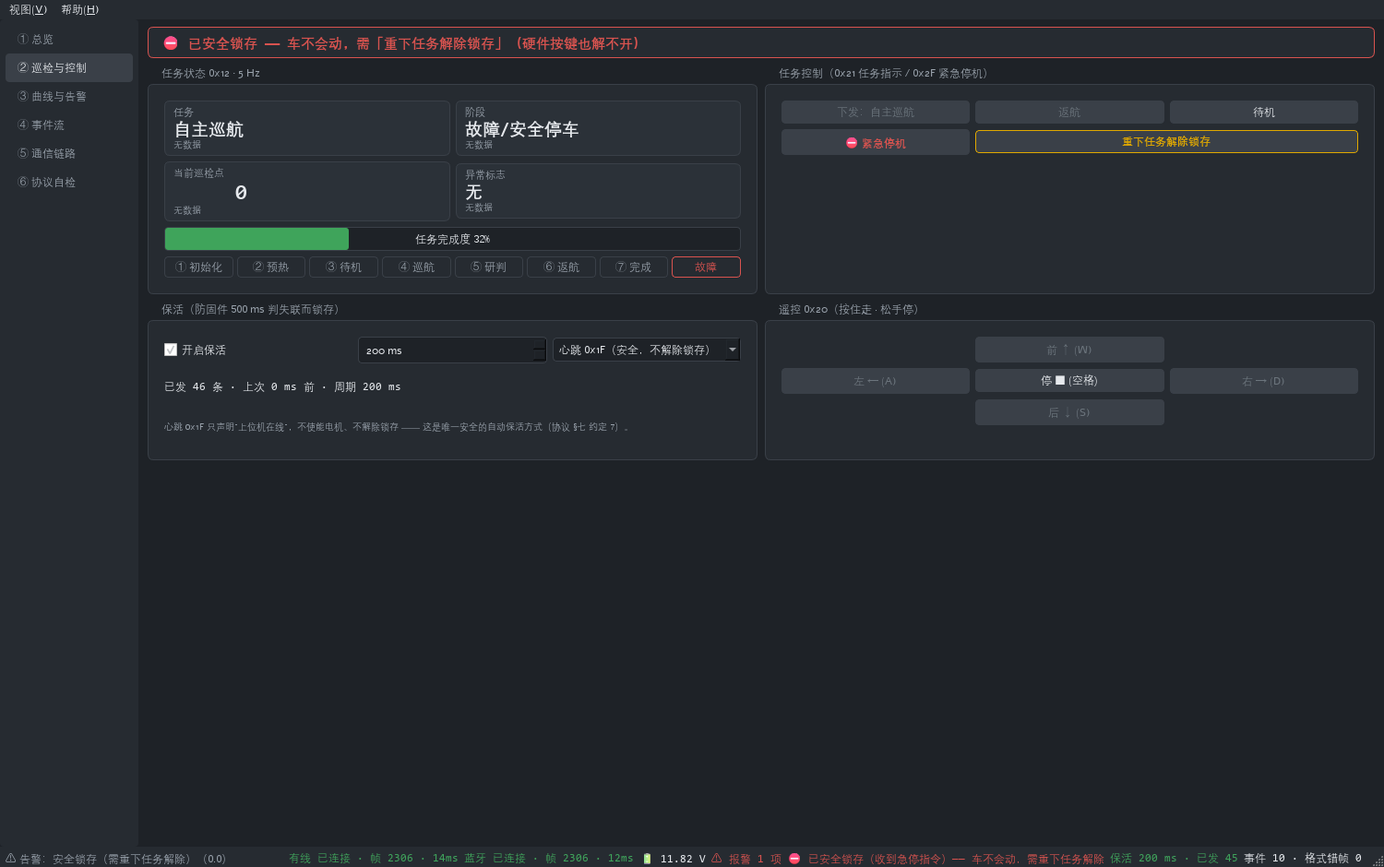
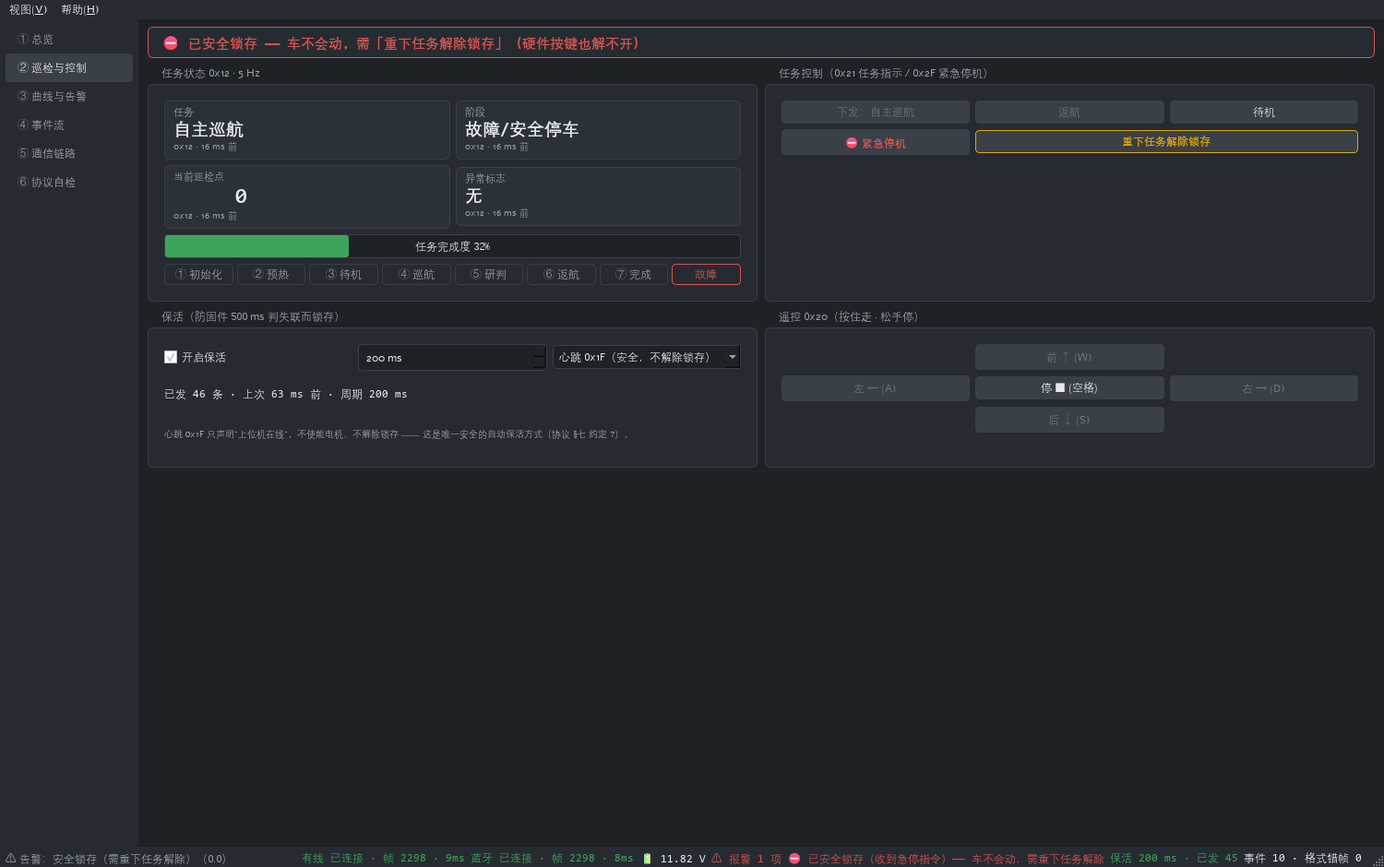
C-P3：巡检可视化与任务控制（commands/keepalive/patrol_panel + 操作员动作留档）
domain/commands：下行数据段唯一出处（0x20/0x21/0x22/0x23/0x24/0x2F/0x1F），带 int16/uint16 钳位（回绕会把'全速前进'变成'后退'）、ppm×10 换算、0x24 float32 小端且拒绝 NaN/Inf、安全影响分类（0x2F 锁存 / 0x20·0x21 可能解除锁存）。domain/keepalive：保活引擎（默认心跳 0x1F·200 ms，链路不通不发，打开/链路恢复立刻发第一条，失败不计入已发）。ui/panels/patrol_panel：阶段时间轴（故障单列红牌）+ 任务下发(0x21)/急停(0x2F)/重下任务解除锁存 + 保活控制（使能模式红字告警）+ 遥控（按住走松手停，键盘 WASD/空格）；锁存期间禁用全部起点类入口。data/event_log：新增操作员动作留档（急停/任务按安全事件着色）。★ 两条安全纪律：保活只能用心跳（用使能保活会每 200 ms 自动解除锁存=绕过急停，决策 69）、锁存期间靠禁用按钮兜底而不是提示语（决策 70）。修 ValueCard 陈旧副标题（值更新后仍写着'无数据'）并加回归测试。测试：ctest 6/6（新增命令/保活 13 项 + 界面 3 项）；--selftest 12 --rate 5 退出码 0 并打印保活统计；文档：C计划 §十五 + 决策 69/70 + AGENTS 陷阱 40 + README §二之六 + 截图 P3_巡检与控制.png。

diff --git a/host/README.md b/host/README.md
@@ -3,14 +3,14 @@
 > 📋 **开工前先读**：[`../docs/design_host/C部分方案与计划.md`](../docs/design_host/C部分方案与计划.md) —— 调研结论 / 技术选型 / 五层模块 / 线程与数据模型 / UI 布局与配色 / P0~P5 计划。
 > 📄 **协议基线**：[`../docs/protocol/communication_protocol.md`](../docs/protocol/communication_protocol.md) **v1.2**（v1.1 冻结版 + `0x15` 诊断 / `0x16` 三环实况增量；含 §七 给上位机的显示约定 13 条）。
 
-> **状态：P0（通信链路）+ P1（状态可见）+ P2（曲线与告警）已完成**（2026-10-15）
-> —— `protocol/` + `io/` + `domain/`（units/frames/vehicle_state/**alarm**）+ `data/event_log` + 五个界面页
-> （总览 / **曲线与告警** / **事件流** / 通信链路 / 协议自检）可用。
-> `ctest` **5/5 通过**（协议 13 + 链路 8 + domain 15 + 界面 7 + 告警/事件流 13）；`host.exe --selftest 3 -platform offscreen` 退出码 **0**。
+> **状态：P0（通信链路）+ P1（状态可见）+ P2（曲线与告警）+ P3（巡检与控制）已完成**（2026-10-15）
+> —— `protocol/` + `io/` + `domain/`（units/frames/vehicle_state/alarm/**commands/keepalive**）+ `data/event_log` + 六个界面页
+> （总览 / **巡检与控制** / 曲线与告警 / 事件流 / 通信链路 / 协议自检）可用。
+> `ctest` **6/6 通过**（协议 13 + 链路 8 + domain 15 + 界面 10 + 告警 13 + **命令/保活 13**）；`host.exe --selftest 3 -platform offscreen` 退出码 **0**。
 > **没有板子也能开发/演示**：假源内置剧本（每 30 s 气体冲高、每 60 s 急停锁存→解除、50~56 s 低压），
-> `--demo --rate 5` 约 12 s 就能把"报警 → 曲线留痕 → 事件流留档 → 解除"整套演完；
+> `--demo --rate 5` 约 12 s 就能把"报警 → 曲线留痕 → 事件流留档 → 锁存 → 重下任务解除"整套演完；
 > **有板子时**用 `--probe COM3` 一条命令把"链路 / 各命令字实际收到条数 / 状态聚合"一次打全（只读，见 §二之三）。
-> 巡检可视化与任务控制（P3）、调参与记录（P4）、打包与文档（P5）待做。
+> 调参与记录（P4）、打包与文档（P5）待做。
 
 > 📌 **来自 B 侧的对接说明（2026-10-09，务必看一下）**
 > 1. **协议测试向量已就绪**：[`../docs/protocol/test_vectors.json`](../docs/protocol/test_vectors.json)（`.tsv` 便于脚本比对）——
@@ -38,11 +38,10 @@
 | 打开串口 | ⚠ **必须显式驱动 DTR/RTS** | 本板 CH340G 把 DTR 接复位、RTS 接 BOOT0；串口一打开驱动默认把两者拉高 ⇒ MCU 停在 BootLoader ⇒ **端口能开、一个字节都收不到**。**运行态 DTR=高、RTS=低**（AGENTS 铁律 33）|
 | 蓝牙链路 | ⚠ **Windows 上暂不通** | 蓝牙 SPP **能配对但建不出 COM 口**；`pybluez2` 在 Python 3.13 上编译不过；本 Qt 套件**未安装 Qt Bluetooth 模块**。**P1 用有线链路（USART1）做主线**；端口识别按**合法帧**判定（参考 [`../tools/fw_prep/bt_scan.py`](../tools/fw_prep/bt_scan.py)，决策 61）|
 | `src/io/` 链路层 | ✅ **P0 完成** | `LinkBase` 抽象 + `SerialLink`（QSerialPort + 工作线程阻塞读 + 自动重连）+ `ReplayLink`（假源/录制回放，离线开发与演示兜底）+ `LinkManager`（双链路、主链路优先、统计）|
-| `src/domain/` 领域层 | ✅ **P1/P2 完成** | `units`（协议定点量的**唯一**换算与格式化处）、`frames`（8 类上行帧结构体 + **精确长度**校验的解析 + 名称表）、`vehicle_state`（双链路合并 + **跨链路去重**、来源与新鲜度、格式错帧/协议外命令/重复帧计数、安全锁存判定、OLED 写速率与四任务 tick 存活）、**`alarm`（连续确认 + 迟滞 + 状态跃变才报，含低压"低了才坏"的方向处理）** |
-| `src/data/` 数据层 | ✅ **P2 起** | `event_log`：机器人 `0x13` 事件（**已去重**）与本机告警同轴留档，安全事件 `0x0A`→`0x09` 成对给出**停车时长**；P4 再加 CSV/SQLite 落盘 |
-| `src/ui/` 界面 | ✅ **P1/P2 完成** | **总览**（姿态+人工地平仪 / 运动 / 电源环境 / 任务巡检 / 诊断 `0x15`+`0x16` / 状态位 LED / 链路与数据来源 + 安全横幅）、**曲线与告警**（四张通道独立曲线：MQ-2 / MQ-135 / 电压 / 温湿度；阈值线、告警标记、十字定标、滚轮缩放、暂停更新、末端读数）、**事件流**（可过滤 + 停车时长 + 量化统计）、**通信链路**（P0）、协议自检；状态条含**假源水印** |
-| 巡检可视化与任务控制 | ⬜ P3 | 阶段/进度/里程碑 + `0x21/0x20/0x2F` + 保活与锁存提示 |
-| 调参与记录 | ⬜ P4 | `0x24` 全流程 + CSV/SQLite + 回放 |
+| `src/domain/` 领域层 | ✅ **P1~P3 完成** | `units`（协议定点量的**唯一**换算与格式化处）、`frames`（8 类上行帧结构体 + **精确长度**校验的解析 + 名称表）、`vehicle_state`（双链路合并 + **跨链路去重**、来源与新鲜度、格式错帧/协议外命令/重复帧计数、安全锁存判定、OLED 写速率与四任务 tick 存活）、`alarm`（连续确认 + 迟滞 + 状态跃变才报）、**`commands`（下行数据段唯一出处 + 安全影响分类）**、**`keepalive`（默认心跳 0x1F 保活，防固件 500 ms 判失联）** |
+| `src/data/` 数据层 | ✅ **P2 起** | `event_log`：机器人 `0x13` 事件（已去重）、本机告警与**操作员动作**同轴留档，安全事件 `0x0A`→`0x09` 成对给出**停车时长**；P4 再加 CSV/SQLite 落盘 |
+| `src/ui/` 界面 | ✅ **P1~P3 完成** | **总览**（姿态+人工地平仪 / 运动 / 电源环境 / 任务巡检 / 诊断 / 状态位 LED / 链路来源 + 安全横幅）、**巡检与控制**（阶段时间轴 + 任务下发/急停/**重下任务解除锁存** + 保活控制 + 按住走松手停的遥控）、**曲线与告警**（四张通道独立曲线 + 阈值线 + 告警标记 + 十字定标）、**事件流**（过滤 + 停车时长 + 量化统计）、**通信链路**（P0）、协议自检；状态条含**假源水印**与**保活状态** |
+| 调参与记录 | ⬜ P4 | `0x24` 全流程 + `0x23` 下发界面 + CSV/SQLite + 回放 |
 | 打包与文档（P5） | ⬜ | `windeployqt` + 软件设计说明 + 用户操作手册 |
 
 ## 二、构建与测试
@@ -62,10 +61,10 @@ cmake -S . -B build -G Ninja -DCMAKE_BUILD_TYPE=Debug \
 # 构建
 cmake --build build
 
-# 跑单元测试（5 个目标：协议 13 + 链路 8 + domain 15 + 界面 7 + 告警/事件流 13，**都不需要硬件/显示器**）
+# 跑单元测试（6 个目标：协议 13 + 链路 8 + domain 15 + 界面 10 + 告警 13 + 命令/保活 13，**都不需要硬件/显示器**）
 ctest --test-dir build --output-on-failure
 
-# 无界面自检：两条链路都切假源，跑 3 s 打印**链路统计 + domain 状态聚合 + 告警与事件流**并退出（0 = 正常）
+# 无界面自检：两条链路都切假源，跑 3 s 打印**链路统计 + 状态聚合 + 告警与事件流 + 保活**并退出（0 = 正常）
 ./build/host.exe --selftest 3 -platform offscreen
 
 # ★ 把假源的安全剧本一次演完（约 12 s 实时 ≈ 60 s 虚拟）：气体冲高→告警→解除、急停锁存→解除、低压
@@ -76,7 +75,8 @@ ctest --test-dir build --output-on-failure
 ./build/test_link.exe           # 期望：8 passed（全在假源上跑）
 ./build/test_domain.exe         # 期望：15 passed（含冻结向量逐字段比对、跨链路去重）
 ./build/test_alarm.exe          # 期望：13 passed（连续确认/迟滞/事件流配对）
-./build/test_ui.exe -platform offscreen   # 期望：7 passed（界面冒烟，不需要显示器）
+./build/test_command.exe        # 期望：13 passed（下行帧往返、钳位、保活行为）
+./build/test_ui.exe -platform offscreen   # 期望：10 passed（界面冒烟，不需要显示器）
 
 # 跑上位机（有板子：在界面里选端口点连接；没有板子：用假源）
 ./build/host.exe
@@ -100,8 +100,9 @@ ctest --test-dir build --output-on-failure
 ./build/host.exe --demo --rate 5 --shot ../docs/design_host/图/P2_曲线与告警.png \
                  --shot-delay 13000 --shot-tab 1
 #    · 无显示器时加 -platform offscreen，并设 QT_QPA_FONTDIR=C:\Windows\Fonts（否则没有字体，整屏方框）
-#    · --shot-tab：0=总览 1=曲线与告警 2=事件流 3=通信链路 4=协议自检
+#    · --shot-tab：0=总览 1=巡检与控制 2=曲线与告警 3=事件流 4=通信链路 5=协议自检
 #    · --shot-delay 13000 配 --rate 5：让假源先跑完 60 s 虚拟时间的剧本，图上才有告警标记
+#    · 想拍"锁存"那一屏：--rate 5 --shot-delay 8800（虚拟 44 s ∈ 急停锁存窗口 40~48 s）
 
 # ③ 每次改动后的固定自检（提交前跑一遍）
 cmake --build build && ctest --test-dir build --output-on-failure \
@@ -216,6 +217,23 @@ src/protocol/
 
 **键盘**：`F11` 快速截图（存到 `AppDataLocation/shots/`，路径自动进剪贴板）；`空格` 暂停/恢复界面更新。
 
+## 二之六、P3 怎么用（巡检与控制 / 保活）
+
+![P3 巡检与控制](../docs/design_host/图/P3_巡检与控制.png)
+
+| 区域 | 内容 | 要点 |
+|---|---|---|
+| 顶部横幅 | 锁存 / 报警 / 正常 | 锁存时红字写明"**需「重下任务解除锁存」（硬件按键也解不开）**" |
+| 任务状态 | 任务 / 阶段 / 巡检点 / 异常标志 + 完成度 + **阶段时间轴**（①初始化…⑦完成，故障单列红牌） | 时间轴用位置表达进度（ISA-101：靠位置读状态） |
+| 任务控制 | 下发巡航/返航/待机（`0x21`）、**⛔紧急停机**（`0x2F`）、**重下任务解除锁存** | **锁存期间巡航/返航/方向键全部禁用**（按不动，而不是只提示）；急停不做二次确认 |
+| 保活 | 开关 + 周期（默认 200 ms）+ 方式（默认**心跳 0x1F**）+ 已发条数/上次时刻 | ★ **绝不要用"使能 0x20"当保活**：协议规定收到使能位=1 即解除安全锁存 ⇒ 每 200 ms 自动拆掉一次急停保护。选它时界面会红字告警 |
+| 遥控 | 前/后/左/右（按住走、松手停）+ 停；键盘 `W A S D` / `空格` | 松手发 `0x20 enable=0`（立即停）；锁存期间同样禁用 |
+
+**为什么保活是必需的**（协议 §五 / §11.5 第 6 条）：固件只要 **500 ms 没收到任何下行帧** 就安全停车**并锁存**，
+而锁存之后**硬件按键也解不开** —— 也就是说，上位机"安静半秒"，车就停并锁住。所以本程序：
+默认开启保活（200 ms，留 2.5 倍余量）、打开时**立刻**发第一条、链路不通时**不发**并显示"待链路"。
+**想演示"失联保护"**：把保活关掉，500 ms 后车会自己锁存，界面横幅立刻变红 —— 这条演示路径不用动任何线。
+
 ## 四、待实现的界面（按任务书要求）
 
 | 面板 | 内容 | 状态 |
@@ -223,8 +241,8 @@ src/protocol/
 | 通信接口面板 | 串口选择、波特率、连接/断开、链路状态、丢帧率、HEX 报文日志 | ✅ P0 |
 | 状态监测面板 | 姿态/轮速/超声/任务进度/巡检点 + 人工地平仪 + 状态位 LED | ✅ P1 |
 | 气体与环境面板 | 双路浓度曲线、当前值、阈值参考线、超限标记、温湿度、就绪位 | ✅ P2 |
-| 事件日志面板 | 告警滚动列表（含时间戳）、`0x08/0x09/0x0A` 成对显示 | ✅ P2 |
-| 巡检可视化与任务控制 | 阶段/进度/里程碑 + 任务下发与急停（`0x21/0x20/0x2F`）| ⬜ P3 |
+| 事件日志面板 | 告警滚动列表 + `0x08/0x09/0x0A` 成对显示 + **操作员动作留档** | ✅ P2/P3 |
+| 巡检与远程控制 | 阶段时间轴、任务下发/急停/解除锁存、保活、按住走松手停 | ✅ P3 |
 | 调参与记录 | `0x24` 在线调参、`0x23` 参数下发、CSV/SQLite 落盘、回放 | ⬜ P4 |
 
 **实时曲线实现要点**（已按此实现，见 `ui/widgets/scope_plot.h` 头注释）：
@@ -233,7 +251,7 @@ src/protocol/
 
 ## 五、交付物
 
-- [x] 完整源代码工程（CMake 一键构建；`ctest` 5/5）
+- [x] 完整源代码工程（CMake 一键构建；`ctest` 6/6）
 - [ ] 可执行程序（含依赖打包说明）→ P5 `windeployqt`
 - [ ] 软件设计说明文档 → P5
 - [ ] 用户操作手册 → P5
@@ -247,3 +265,4 @@ src/protocol/
 | 2026-10-15 | **跟上协议 v1.2 与联调结论**：标注 `frame.h` 已完成的三项（`kMotion` N=9、`kDiag`/`kLoop`、事件码 `0x08~0x0A`）、DTR/RTS 与蓝牙不可用的现状、失联锁存的"保活"要求、`0x15`/`0x16` 新帧与固件版本字节的用法 |
 | 2026-10-15 | **P1 完成**：`domain/`（`units`/`frames`/`vehicle_state`）+ 总览面板 + 主题与小部件（数值牌/LED/地平仪）+ `--probe`/`--shot` 两个工具开关；`ctest` **4/4**（协议 13 + 链路 8 + domain 14 + 界面冒烟 6）；真机 `--probe` 通过（解帧 375、丢帧 0、格式错帧 0）。修掉三个坑：退出路径依赖排队信号、数值牌裁掉枚举文字、`QStringList` 缺头文件的误导报错 |
 | 2026-10-15 | **P2 完成**：QCustomPlot 2.1.1 内置为 `third_party/qcustomplot`（未改动、只对该目标关告警）+ `domain/alarm`（连续确认/迟滞/状态跃变才报）+ `data/event_log`（安全事件成对给停车时长）+ 曲线页 + 事件流页 + `--rate` 开关；`ctest` **5/5**（新增告警/事件流 13 项与界面 3 项）。修掉两个坑：**两条链路都发同样的帧 ⇒ 事件流重复 + 连续确认被 1.5 帧满足**（去重移到聚合层，决策 67）、低压判据把"高=坏"写死导致**低压保护静默失效**（决策 68）；另修 `QCustomPlot::removeItem()` 已自删导致的 double free |
+| 2026-10-15 | **P3 完成**：`domain/commands`（下行数据段唯一出处：0x20/0x21/0x22/0x23/0x24/0x2F/0x1F，带钳位与安全影响分类）+ `domain/keepalive`（默认心跳、200 ms、链路不通不发）+ 巡检与控制页（阶段时间轴 / 任务下发 / 急停 / 解除锁存 / 保活 / 按住走松手停）+ 事件流增加操作员动作留档；`ctest` **6/6**（新增命令/保活 13 项与界面 3 项）。两条安全纪律落进代码：**保活只能用心跳**（使能保活会周期性解除锁存，决策 69）、**锁存期间禁用起点类入口**（决策 70）；另修"值更新后副标题仍写着无数据"的陈旧显示并加回归测试 |

diff --git a/docs/design_host/C部分方案与计划.md b/docs/design_host/C部分方案与计划.md
@@ -220,7 +220,7 @@ host/
 | **P0 打通** ✅ **已完成**（2026-10-13）| `io/` 链路抽象 + 串口线程 + 环形缓冲 + 假源回放 + 通信诊断面板；接上已有 `protocol/`；播放帧计数与 HEX 日志 | ✅ 已达成：假源 ×1.0 = **51 帧/s**、×10 = **505 帧/s 且 0 丢帧**；坏帧比例 1.0 时丢帧计数确实增长；`ctest` **2/2**（协议 13 + 链路 8）；`host.exe --selftest 3 -platform offscreen` 退出码 **0**。真实串口路径已实现（含自动重连），待板子焊好后按 `host/README.md` §二之二 第 4 条验证 | 已完成 |
 | **P1 状态可见** ✅ **已完成**（2026-10-15）| `domain/`（`units` + `frames` + `vehicle_state`）+ 总览视图（姿态/运动/电源环境/任务/诊断/状态位六组 + 安全横幅 + 人工地平仪）、状态条（两条链路/电压/安全/格式错帧）、ISA-101 主题、真机只读探测 `--probe`、自动截图 `--shot` | ✅ 已达成：`ctest` **4/4**（协议 13 + 链路 8 + **domain 14** + **UI 冒烟 6**）；`host.exe --selftest 3 -platform offscreen` 退出码 **0**（假源→解帧→domain：6 类必到帧全解析、格式错帧 0）；**真机 `--probe COM3`**：解帧 375 条、丢帧 0、格式错帧 0，姿态/运动/电压/任务/环境/三环全部有值（见 §十三）| 已完成 |
 | **P2 曲线与告警** ✅ **已完成**（2026-10-15）| `domain/alarm`（连续确认 + 迟滞 + 状态跃变才报）、`data/event_log`（0x13 事件 + 本机告警同轴、安全事件成对给停车时长）、`ui/widgets/scope_plot`（QCustomPlot 唯一封装：通道/环形缓冲/阈值线/事件标记/十字定标/滚轮缩放/双击复位/末端读数）、`ui/panels/curve_panel`（四张通道独立曲线：MQ-2 / MQ-135 / 电压 / 温湿度）、`ui/panels/event_panel`（可过滤 + 底部量化统计）| ✅ 已达成：`ctest` **5/5**（协议 13 + 链路 8 + domain 15 + 界面 7 + **告警/事件流 13**）；`--selftest 12 --rate 5` 退出码 **0** 且打印出完整剧本（气体冲高→告警→解除、急停锁存→解除并给出**停车时长 1.6 s**、低压 10.91 V→解除 10.85 V）；曲线图上留痕、事件流条目与告警一一对应；另修掉一个**真实的数据正确性缺陷**：两条链路都发同样的帧 ⇒ 事件流重复 + "连续确认 3 帧"被 1.5 次真实采样满足（见 §十四）| 已完成 |
-| **P3 巡检可视化** | 巡检面板（阶段/进度/巡检点/里程碑时间轴）+ 任务控制（0x21/0x20/0x2F）+ 安全状态显式提示（"已锁存，需重下任务"） | 能完整跑一遍：下发任务 → 看进度推进 → 急停 → 界面明确提示锁存 → 重下任务解除 | 2 天 |
+| **P3 巡检可视化** ✅ **已完成**（2026-10-15）| `domain/commands`（**下行数据段唯一出处**：0x20/0x21/0x22/0x23/0x24/0x2F/0x1F）、`domain/keepalive`（保活引擎，默认心跳 0x1F）、`ui/panels/patrol_panel`（阶段时间轴 + 任务下发/急停/**重下任务解除锁存** + 保活控制 + 遥控"按住走松手停"）；事件流增加**操作员动作留档** | ✅ 已达成：`ctest` **6/6**（新增命令/保活 13 项 + 界面 3 项）；`--selftest 12 --rate 5` 退出码 **0** 且打印保活统计（心跳 0x1F · 200 ms · 已发 60 条）；假源剧本下界面完整跑通"锁存 → 横幅红字 → 起点类按钮全部禁用 → 重下任务解除"；急停/任务下发**真的写出字节**（7 B / 9 B，见 §十五 测试）| 已完成 |
 | **P4 调参与记录** | 调参视图（0x24 全流程 + 100 Hz 观测 + 保存/载入 Flash）+ CSV/SQLite 落盘 + 回放 | 在线改 `Turn_Kp` 当场生效并回读一致；记录文件能被 Excel 打开；回放能在无硬件时驱动界面 | 2 天 |
 | **P5 交付** | 打包（windeployqt）+ 《软件设计说明文档》+《用户操作手册》+ 演示脚本与截图 | 在**没装 Qt 的电脑**上双击可运行；文档齐套；演示脚本 5 分钟内跑完三大功能 | 2 天 |
 
@@ -326,6 +326,7 @@ host/
 | 2026-10-15 | **v1.1**：上游协议升为 **v1.2**（`0x15` 诊断 / `0x16` 三环实况 + 固件版本字节）；§11.5 补 5~7 条（版本字节先行、**失联锁存的保活要求**、两个新帧 P1 就接）并写明**蓝牙在 Windows 上不可用 ⇒ 联调主线走有线**；新增 §11.6 两个新上行帧的 C 侧实现要点 |
 | 2026-10-15 | **v1.2：P1 完成**（`ctest` 4/4 + 假源自检退出码 0 + 真机 `--probe` 通过）；新增 §十三「P1 完成记录与真机实测发现」（含两条**交 B 确认**的实测现象：上行速率 ≈15.3 Hz 与 `0x15` 电压 4.16 V）；新增决策 65/66（domain 唯一口径、假源必须覆盖全部帧与安全剧本）|
 | 2026-10-15 | **v1.3：P2 完成**（曲线与告警）：QCustomPlot 2.1.1 内置为 `third_party/qcustomplot`（未改动、只对本目标关告警）+ `domain/alarm` + `data/event_log` + 四张通道独立曲线 + 事件流面板；新增 §十四「P2 完成记录」；新增决策 67/68（**跨链路去重必须在聚合层做一次**、告警判定的三条纪律与"低压是低了才坏"的方向问题）；`--rate` 开关让安全剧本 12 s 内可演完 |
+| 2026-10-15 | **v1.4：P3 完成**（巡检可视化与任务控制）：`domain/commands`（下行数据段唯一出处）+ `domain/keepalive`（**默认心跳 0x1F** 保活）+ `ui/panels/patrol_panel`（阶段时间轴 / 任务下发 / 急停 / 重下任务解除锁存 / 保活控制 / 按住走松手停的遥控）；事件流增加**操作员动作留档**；新增 §十五「P3 完成记录」与决策 69/70（**保活绝不能用使能类命令**、锁存期间用"禁用按钮"而不是"提示语"来兜底）|
 
 ### 11.5 待集成：串口/蓝牙端口自动识别（2026-10-13 真机联调提出）
 
@@ -445,3 +446,42 @@ host/
 2. **CSV/回放仍空**：曲线数据只在内存（环形，窗口的 2 倍），落盘与回放在 P4；
 3. **`0x16` 三环曲线还没画**：P2 画的是气体/电压/温湿度四张；`Bal/Vel/Turn` 与 `Moto→CCR` 的曲线留给 P4（调参视图要的就是它们）；
 4. **事件流暂不能导出**：过滤与统计已有，CSV 导出随 P4 的记录功能一起做。
+
+---
+
+## 十五、P3 完成记录（巡检可视化与任务控制，2026-10-15）
+
+### 15.1 交付与证据
+
+| 项 | 命令 | 结果 |
+|---|---|---|
+| 全量回归 | `ctest --test-dir build` | **6/6 通过**（协议 13 + 链路 8 + domain 15 + 界面 10 + 告警 13 + **命令/保活 13**），全量构建**零告警** |
+| 下行命令与保活 | `ctest -R command` | 13 项：`0x20` 布局与**超范围钳位**（不许回绕成反向指令）、`0x21` 参数布局、`0x23` ppm×10 与钳位、`0x24` **float32 小端**与拒绝 NaN/Inf、**造→组帧→解帧→比对**全覆盖、保活"链路不通不发/就绪立刻发/断了就停/失败计入/周期钳位/使能模式行为"、操作员动作留档 |
+| 界面冒烟 | `ctest -R ui` | 10 项：新增"**锁存期间 6 个起点类按钮被禁用**""急停与任务下发**真的写出字节**（7 B / 9 B）并留档""值更新后副标题同步（不许留着『无数据』）" |
+| 端到端剧本 | `host.exe --selftest 12 --rate 5 -platform offscreen` | 退出码 **0**；新增保活统计输出：`心跳 0x1F（不解除锁存）· 周期 200 ms · 已发 60 条 · 最近一条 186 ms 前` |
+| 文档截图 | `--demo --rate 5 --shot ... --shot-tab 1 --shot-delay 8800` | [`图/P3_巡检与控制.png`](图/P3_巡检与控制.png)：锁存横幅红字、阶段红牌、起点按钮全灰、**"重下任务解除锁存"高亮**、保活状态与遥控禁用 |
+
+### 15.2 三条安全设计（都有依据，也都在界面上写明白）
+
+| # | 设计 | 依据 / 为什么必须这样 |
+|---|---|---|
+| 1 | **保活默认且自动只用 `0x1F` 心跳**；`0x20 enable=1` 只能由人显式选择，且旁边写明"会解除锁存" | 协议 v1.1：收到显式使能（`0x20` 使能位=1 或 `0x21` 任务=巡航）**即解除安全锁存**。若把使能当保活周期发，等于**每 200 ms 自动绕过一次急停保护**（AGENTS 铁律 29 的"旁路"）—— 而表面上一切正常 |
+| 2 | **锁存期间禁用**（而不是"提示"）一切起点类入口：方向键、巡航、返航 | 协议 §3.6"锁存期间禁止起步"。靠禁用兜底：**人不会读提示语，但按不动就是按不动** |
+| 3 | 急停**不做二次确认**；"重下任务解除锁存"才需要人明确点 | 急停就是"来不及解释"的那个按钮；而解除锁存是**放宽**保护，必须是人主动的动作 |
+
+### 15.3 保活参数与依据
+
+| 项 | 取值 | 依据 |
+|---|---|---|
+| 周期 | **200 ms**（可调 50~2000） | 固件判据 500 ms，200 ms 留 **2.5 倍余量**；上层再抖动也不会误判失联 |
+| 立即发第一条 | 打开保活 / 链路就绪时**立刻**发，不等第一个周期 | "打开后到第一条"的空隙正是最容易踩出 500 ms 超时的窗口 |
+| 链路不通时 | **不发**，界面显示"待链路" | 不能假装在保活；否则排障时会以为是固件问题 |
+| 失败处理 | 计入 `sendFailed`、**不计入"已发"** | 统计要能回答"到底发出去没有" |
+| 操作员动作留档 | 急停与任务指示进事件流（安全事件色）；遥控命令也留档但不着安全色 | 复盘"车为什么停了"往往答案就是"某人按了急停"；而一次遥控几十条，全标安全事件会把"只看安全事件"过滤器刷爆 |
+
+### 15.4 P3 已知边界
+
+1. **遥控只有"按住走/松手停"的四个方向 + 停**：没有速度手柄、没有曲线化的遥控（计划 §11.2 第 9 条的完整形态可继续做）；
+2. **`0x23` 巡检参数下发还没接到界面**：`domain/commands` 里已经就绪（`surveyCfgPayload`，带 ppm×10 与钳位），面板随 P4 的调参页一起做；
+3. **左转符号未在真机核对**：`patrol_panel.cpp` 里 `kTurnLeftSign` 一处常量，真机若"按左转却右转"只改它（不要在每个按钮回调里各改一遍）；
+4. **锁存解除仍依赖固件**：上位机只发协议规定的解除路径，不猜测、不重试（重试会在锁存期间反复开车门）。

diff --git a/AGENTS.md b/AGENTS.md
@@ -16,7 +16,7 @@
 | PCB（板「改」） | ✅ 完工 —— 523 走线段 / 76 过孔 / **双面实心 GND 铺铜** / **DRC 零错误零未连接** |
 | 打样与采购 | ✅ **全部到货，已焊好并上板联调**（2026-10-15 第二轮真机联调）|
 | 真机台架 | 🔶 **只有 MQ-135，插在 `J13`**（`J10` 空、MQ-2 模块已烧毁待补）；DHT11 正常；电池 **11.8 V**；**OLED 正常显示**（页 1 / 页 2 / 厂商页）——即"传感器全未就绪""OLED 乱码"等**旧现象均已解决**（见 [`真机联调问题清单.md`](docs/design_firmware/真机联调问题清单.md) §6/§7）|
-| 固件 B / 上位机界面 C | 🔶 **B：离线部分完成 + 两轮真机联调修正**（GCC 构建出 `.hex`；**离线核验 9 项全通过**：协议 117 + 传感器 1235 + 状态机 80 + 调参 29 条断言、`tune.py --selftest`、交叉编译、向量表、中断安全、引脚基线；现占用 **Flash 约 66.5 KB / RAM 约 32.8 KB**；四任务已跑起来、程序说明文档已出 → [`docs/design_firmware/B阶段开工准备.md`](docs/design_firmware/B阶段开工准备.md)）；**C：P0（通信链路）已完成** —— `io/` 链路层 + 通信诊断面板 + 假源回放，`ctest` 2/2（协议 13 + 链路 8），`host.exe --selftest` 退出码 0；方案与计划见 [`docs/design_host/C部分方案与计划.md`](docs/design_host/C部分方案与计划.md)（P1~P5 待做），**协议 v1.2 为当前版本**（v1.1 冻结 + 0x15/0x16 增量）|
+| 固件 B / 上位机界面 C | 🔶 **B：离线部分完成 + 两轮真机联调修正**（GCC 构建出 `.hex`；**离线核验 9 项全通过**：协议 117 + 传感器 1235 + 状态机 80 + 调参 29 条断言、`tune.py --selftest`、交叉编译、向量表、中断安全、引脚基线；现占用 **Flash 约 66.5 KB / RAM 约 32.8 KB**；四任务已跑起来、程序说明文档已出 → [`docs/design_firmware/B阶段开工准备.md`](docs/design_firmware/B阶段开工准备.md)）；**C：P0~P3 已完成** —— `io/` 链路层 + 通信诊断面板 + 假源回放（P0）、`domain/`（units/frames/vehicle_state）+ 总览与状态位（P1）、曲线与告警 + 事件流（P2）、**巡检与任务控制 + 保活（P3）**；`ctest` **6/6**（协议 13 + 链路 8 + domain 15 + 界面 10 + 告警 13 + 命令/保活 13），`host.exe --selftest` 退出码 0；方案与计划见 [`docs/design_host/C部分方案与计划.md`](docs/design_host/C部分方案与计划.md)（P4~P5 待做），**协议 v1.2 为当前版本**（v1.1 冻结 + 0x15/0x16 增量）|
 
 **⚠ 现在不要动 EDA 工程**，除非用户明确要求。板子**已打样并焊好、正在真机联调**（2026-10-15），此时改动会引入版本混乱。
 > 仅需注意：`docs/design_hardware/` 下描述 **EDA 操作步骤**的两章是**完工前的作业稿**，仅供理解当时的判断依据
@@ -177,6 +177,7 @@ pwsh -NoProfile -File tools\eda_exec.ps1 -CodeFile tools\eda_pcb_overview.js
 | **35** | **★★ 条件编译的宏必须在同一个 .c 里可见，否则 `#if CFG_XXX` 静默取 0** —— 本项目 `control.c` 使用了 `CFG_ENCODER_*_INVERT` / `CFG_MOTOR_*_INVERT` 等开关，但**没有包含 `app_config.h`**（也没有任何一个它包含的头间接包含），于是这些 `#if` 块**整段被预处理跳过**，开关写什么值都无效 —— 而**运行现象上完全看不出来**（连续三轮"翻电机方向"实验一次都没生效，白烧固件、白折腾一晚）。**规则**：① 凡在 `.c` 里用 `#if CFG_*`，该 `.c` 必须能看到定义它的头文件；② 改完开关**必须用预处理输出验证**（`gcc -E`，命令可从 `compile_commands.json` 取），**不要**用"文件大小/哈希是否变化"来判断（对齐会吸收 2~4 字节的差异，会给出假阴性）。 |
 | **38** | **★ 两条链路都发同样的帧 ⇒ 去重必须在聚合层做一次** —— 协议 §七 约定 6 规定周期帧与事件**两路都发**，而曲线采样、告警的"连续确认"、事件流都是**按帧计数**的 ⇒ 同一次测量被算两次：现象是事件流每条**出现两遍**、"连续确认 3 帧"被 **1.5 次**真实采样满足（提前报警）、曲线同一时刻采两个样。修法：在 `domain/vehicle_state` 按命令字记住"最近一帧原始数据 + 来源 + 时刻"，判据 = **同命令字 + 内容逐字节相同 + 来自不同链路 + 间隔 ≤150 ms**（同链路连发相同内容在 20 Hz 下很常见，**不算**重复），并把"重复帧"计数显示出来。**连带**：假源两条链路必须造**逐字节相同**的帧，否则去重认不出来（本项目假源曾各自用 tick 时刻，把一次冲高事件造出两帧）。**教训**：这是"看不见的正确性问题"—— 界面照常、曲线照常，只有把事件流与告警**次数**当真核对才会发现（决策 67）。 |
 | **39** | **★ `QCustomPlot::removeItem()` 会自己 delete 那个 item** —— 再 `delete` 一次就是 **double free**（本项目 `test_ui` 当场崩在 `clearMarkers()`，gdb 栈直接指到 `delete l;`）。凡"容器里存图元、需要清理"的地方，用完 `removeItem()` 就**不要再删**。**根子是"我 new 的就我 delete"这种直觉**：对象归属要**由库的语义决定**（决策 68 的姊妹坑：都是想当然）。 |
+| **40** | **★★ 保活（防失联锁存）绝不能用"使能类"命令** —— 固件规定 **500 ms 没有下行帧 ⇒ 安全停车并锁存**（硬件按键也解不开），所以上位机必须周期发合法下行帧；**但只能用 `0x1F` 心跳**：协议 v1.1 明确"收到显式使能（`0x20` 使能位=1 或 `0x21` 任务=自主巡航）**即解除安全锁存**" ⇒ 若拿 `0x20 enable=1` 当保活周期发，就等于**每 200 ms 自动把急停保护拆掉一次**，而界面上一切看起来都正常（铁律 29 的旁路）。C 侧实现见 `domain/keepalive.*`（默认心跳、200 ms、链路不通不发、打开/恢复链路时立刻发第一条），决策 69。**同时**：锁存期间要用**禁用按钮**兜底而不是提示语（决策 70）。 |
 
 ---
 
@@ -256,7 +257,7 @@ python ..\tools\fw_prep\gen_test_vectors.py       # 协议测试向量（B/C 共
 
 - **文档中文，工程目录英文。**
 - **改动前先看对应文档**：硬件 → `docs/design_hardware/`；协议 → `docs/protocol/`。
-- **决策要记进 [`docs/决策记录.md`](docs/决策记录.md)**（连续编号，现已到 68）。
+- **决策要记进 [`docs/决策记录.md`](docs/决策记录.md)**（连续编号，现已到 70）。
 - **固件（B）相关**：开工准备与核验记录在 [`docs/design_firmware/B阶段开工准备.md`](docs/design_firmware/B阶段开工准备.md)；
   构建 = `arm-none-eabi-gcc` + Makefile（**必须产出 `.hex`**，用 FlyMcu 串口 ISP 烧录），**不考虑 Keil 交付**（决策 34）。
 - **新读者入口**：[`docs/文档索引.md`](docs/文档索引.md)；**接手**：[`docs/handoff/交接说明.md`](docs/handoff/交接说明.md)。

diff --git a/docs/决策记录.md b/docs/决策记录.md
@@ -3,10 +3,10 @@
 > 记录本项目已定型的决策，避免反复确认或走回头路。
 > **当前进展**：阶段三（底板重做）已完工、已打样、**已焊好并完成两轮真机联调**
 > （2026-10-13 第一轮 / 2026-10-15 第二轮，决策 60~64）；**B 阶段的固件离线部分已完成**（决策 34~46）；
-> **C 侧上位机 P0（通信链路）+ P1（状态可见）+ P2（曲线与告警）已完成**（决策 58~59、65~68）。
+> **C 侧上位机 P0（通信链路）+ P1（状态可见）+ P2（曲线与告警）+ P3（巡检与任务控制）已完成**（决策 58~59、65~70）。
 > 见 [`design_firmware/程序说明文档.md`](design_firmware/程序说明文档.md)、
 > [`design_firmware/B阶段开工准备.md`](design_firmware/B阶段开工准备.md) 与
-> [`design_firmware/真机联调问题清单.md`](design_firmware/真机联调问题清单.md)（决策 **1~68**）。
+> [`design_firmware/真机联调问题清单.md`](design_firmware/真机联调问题清单.md)（决策 **1~70**）。
 > 更新日期：2026-10-15
 >
 > 📌 **完整背景与现状见** → [`handoff/交接说明.md`](handoff/交接说明.md)
@@ -120,6 +120,8 @@
 | 66 | ★ **假源（离线/演示数据源）必须覆盖"界面要用到的每一种帧"并内置安全剧本**（2026-10-15）：C 侧假源补齐 `0x13`/`0x15`/`0x16`，并内置一套**可重复剧本** —— 1 s 自检完成 / 2 s 任务开始 / 每 30 s 气体冲高报 `0x06` / 每 60 s 的 `0x0A` 急停锁存 → `0x09` 解除 / 50~56 s 低压窗口；"造帧"集中到 `tests/frame_factory.h`，`test_link` 的长度表与 `test_domain` 的"端到端 **0 格式错帧**"断言共同守住这条 | **少一种帧 = 那块界面离线时永远空白**，而人极易把它当成"界面写错了"去瞎改（P0 的 `0x14` 少发两个保留字节就是这么被发现的）。而"报警/锁存/解除"在真机上要人去制造（拔线、按急停）才能复现，脚本化之后 P1~P3 的界面**没有板子也能演完**，也是演示现场硬件故障时的应急预案（AGENTS 陷阱 32 的同一条思路）|
 | 67 | ★ **"两条链路都发同样的帧"⇒ 去重必须在聚合层做一次**（2026-10-15，P2 实际踩到）：协议 §七 约定 6 规定周期帧与事件告警**两路都发**。原先 `VehicleState` 只是"谁后到用谁的值"，而下游（曲线采样、告警的连续确认、事件流）**按帧计数** ⇒ 同一次物理测量被算两次：现象是 ① 事件流每条事件**出现两遍**（复盘会误以为急停发生了两次）、② 告警的"连续确认 3 帧"被 **1.5 次**真实采样满足（提前报警）、③ 曲线同一时刻采两个样。**修法**：`VehicleState` 对每个命令字记住"最近一帧的原始数据 + 来源 + 时刻"，判据 = **同命令字 + 内容逐字节相同 + 来自不同链路 + 间隔 ≤150 ms**（同链路连发相同内容在 20 Hz 下常见，**不算**重复）；`dataUpdated`/`eventReceived` 只在非重复时发出，下游自动各得一次；并暴露 `duplicateFrames` 计数让"去掉了多少条"可见。**连带**：假源两条链路必须造出**逐字节相同**的帧（原先各自用 tick 时刻 → 冲高事件被造出两帧内容不同的 `0x13`，去重认不出来） | 这条属于"看不见的正确性问题"：界面照常显示，曲线照常有线，**只有把事件流与告警次数当真去核对**才会发现。它与铁律 29"算出该停车≠真的停车"同源 —— **计数类判据必须能回答"这个数是怎么数出来的"** |
 | 68 | ★ **告警判定的三条纪律 + 一个方向陷阱**（2026-10-15，P2）：① **连续确认**（默认 3 帧，同 `0x23`）——单帧毛刺不报；② **迟滞**（气体回到阈值 ×0.9、低压回升到 11.40 V 才解除）——贴着阈值不许来回跳；③ **状态跃变才报**：同一段异常只报一次，**但解除后再超限必须重新报**（计划原文"再次进入异常不再重复提示"按"重复帧不重复提示"实现；若真的再也不报，安全功能就是装饰）。**方向陷阱**：`AlarmEngine` 最初把"高=坏"写死在判据里 ⇒ **低压保护反向失效**（电压 11.05 V 明明低于 11.10 V 报警线却永不报警），而现象只是"低压从来不报"，很难往"比较方向"上想。现在 `judgeThresholdFor(..., lowIsBad)` 显式声明方向，并在测试里对两个方向各有一条断言 | 三条纪律各自对应一种真实误报/漏报；方向陷阱是"监控功能静默失效"的典型 —— 与"少除一个 10"（决策 65）一样，**看现象看不出来** |
+| 69 | ★ **保活绝不能用"使能类"命令（P3，安全相关）**：固件规定"**500 ms 没收到任何下行帧 ⇒ 安全停车并锁存**，且**硬件按键也解不开**"，所以上位机必须周期发合法下行帧（C 侧实现 `domain::KeepaliveEngine`，默认 **200 ms**，留 2.5 倍余量）。**但保活只能用 `0x1F` 心跳**：协议 v1.1 明确"收到显式使能（`0x20` 使能位=1 或 `0x21` 任务=自主巡航）**即解除安全锁存**" ⇒ 若把 `0x20 enable=1` 当保活周期发，就等于**每 200 ms 自动绕过一次急停保护**（铁律 29 的旁路），而界面上一切看起来都正常。另两条实现要求：① 打开保活/链路就绪时**立刻**发第一条（"打开到第一条"的空隙最容易踩出超时）；② 链路不通时**不发**并显示"待链路"（不能假装在保活），发送失败不计入"已发" | 这是"监控/保活功能自己把安全保护拆掉"的典型：保活的心跳选择错了，**急停与失联保护都会静默失效**。所以把"方式"做成显式选项（默认心跳），并使能模式在界面上高亮告警（决策 70 同源） |
+| 70 | ★ **锁存期间用"禁用入口"兜底，而不是靠提示语**（P3）：协议 §3.6"锁存期间禁止起步"。C 侧把方向键、巡航、返航**全部禁用**（按不动），并高亮"重下任务解除锁存"作为唯一路径；急停则**不做二次确认**（它就是"来不及解释"的按钮），而解除锁存必须是人主动点。**副标题/提示必须与值同步**：P2 的湿度卡、P3 的任务卡都出现过"值已更新、副标题还写着『无数据』"——`setValue/setText` 不会清旧副标题，现已加回归测试（`test_ui` 断言有数据后副标题不许含"无数据"） | ①"靠提示语"在真实操作节奏里等于没有保护（人不会读）；②"值与副标题自相矛盾"的界面会让人误判成"数据没到"，从而去查错方向 —— 这类"显示不一致"与"口径不一致"（决策 65）是同一类错误 |
 ---
 
 ## 四、行政与资源
